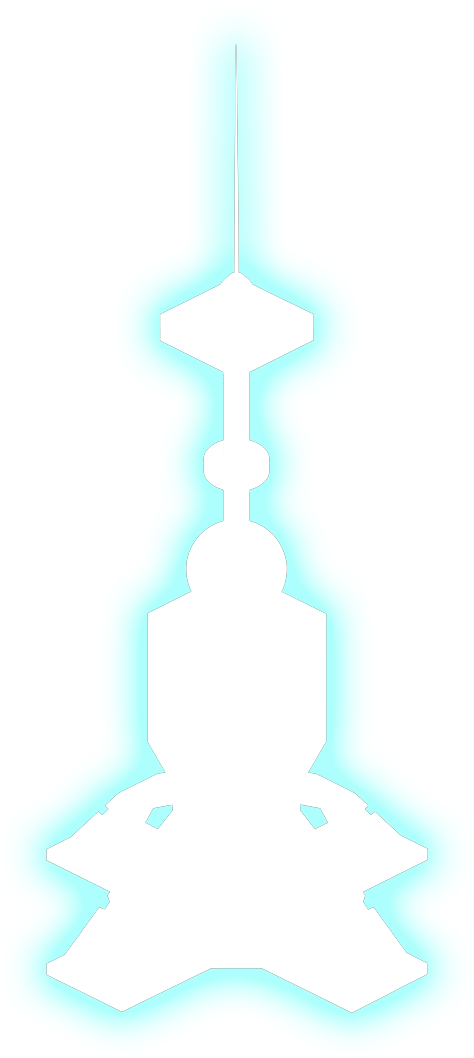
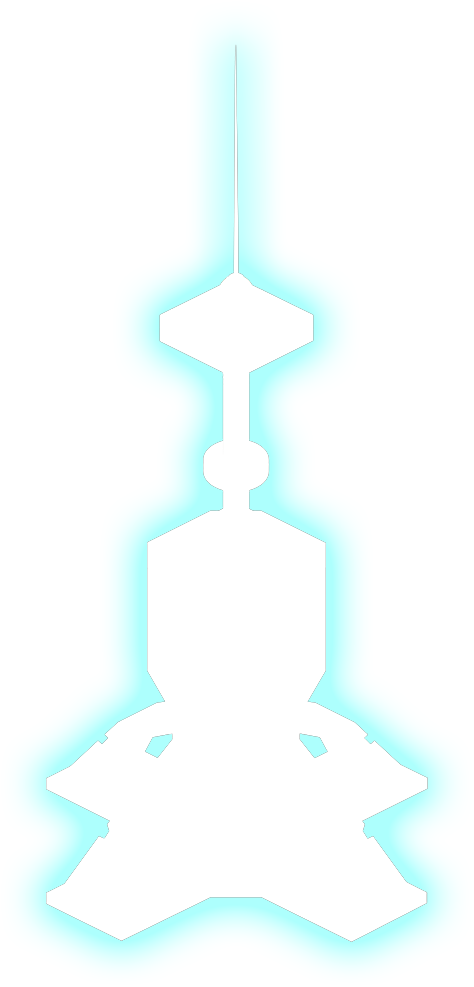
TV

diff --git a/src/buildings/config.ts b/src/buildings/config.ts
@@ -42,8 +42,12 @@ import theaterTowerLevel2Img from './theater/2.png';
 import theaterTowerLevel2Stroke from './theater/2-stroke.png';
 import theaterTowerLevel3Img from './theater/3.png';
 import theaterTowerLevel3Stroke from './theater/3-stroke.png';
+import TVTowerLevel1Stroke from './TV/1-stroke.png';
+import TVTowerLevel1Img from './TV/1.png';
 import TVTowerLevel2Stroke from './TV/2-stroke.png';
 import TVTowerLevel2Img from './TV/2.png';
+import TVTowerLevel3Stroke from './TV/3-stroke.png';
+import TVTowerLevel3Img from './TV/3.png';
 import stadiumLevel1Img from './stadium/1.png';
 import stadiumLevel2Img from './stadium/2.png';
 import stadiumLevel3Img from './stadium/3.png';
@@ -383,32 +387,30 @@ export class BuildingsService {
       title: 'Цифровое ТВ',
       coords: [2262, 1726],
       zIndex: ZIndexes.BUILDING_TWO_LEVEL,
-      maxLevel: TowerLevel.mid,
+      maxLevel: TowerLevel.high,
       [TowerLevel.low]: {
-        // TODO: не настоящая картинка
-        img: musicTowerLevel1Img,
-        width: 1,
-        height: 2,
-        shadowImg: musicTowerLevel1Stroke,
-        areaCoords: '93,286,362,1006',
-        position: [42.2, 36.9],
+        img: TVTowerLevel1Img,
+        width: 486,
+        height: 842,
+        shadowImg: TVTowerLevel1Stroke,
+        areaCoords: '49,52,434,789',
+        position: [25.74, 26.35],
       },
       [TowerLevel.mid]: {
         img: TVTowerLevel2Img,
         width: 474,
-        height: 1058,
+        height: 987,
         shadowImg: TVTowerLevel2Stroke,
-        areaCoords: '365,1006,120,255',
-        position: [21.6, 26.42],
+        areaCoords: '48,45,430,940',
+        position: [22.9, 26.42],
       },
       [TowerLevel.high]: {
-        // TODO: не настоящая картинка
-        img: eggTowerLevel3Img,
-        width: 384,
-        height: 531,
-        shadowImg: eggTowerLevel3Stroke,
-        areaCoords: '320,441,50,45',
-        position: [31.5, 50.9],
+        img: TVTowerLevel3Img,
+        width: 474,
+        height: 1058,
+        shadowImg: TVTowerLevel3Stroke,
+        areaCoords: '48,44,428,1016',
+        position: [21.6, 26.42],
       },
     },
     [TowersTypes.STADIUM]: {

diff --git a/src/effector/towers-progress/store.ts b/src/effector/towers-progress/store.ts
@@ -67,7 +67,7 @@ const initState: TowersProgressStoreType = {
     progress: 0,
   },
   [TowersTypes.TV]: {
-    level: TowerLevel.mid,
+    level: TowerLevel.low,
     progress: 0,
   },
   [TowersTypes.STADIUM]: {
